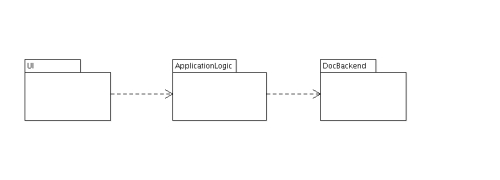
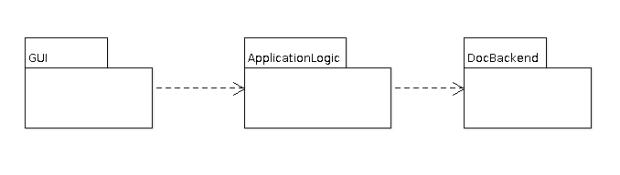
ST:correzioni post-verifica

Changed region(s): [[0.03, 0.2, 0.96, 0.7429]]

diff --git a/doc/SpecificaTecnica/SpecificaTecnica.tex b/doc/SpecificaTecnica/SpecificaTecnica.tex
@@ -92,8 +92,7 @@ Il presente documento descrive le scelte tecniche, architetturali e tecnologiche
 			\label{tabredazione}
 		\end{center}
 	\end{table}
-	
-\newpage	
+
 	
 \section*{\LARGE Approvazione:}
 \begin{table}[!h]
@@ -108,8 +107,8 @@ Il presente documento descrive le scelte tecniche, architetturali e tecnologiche
 			%%%%%%%%%%%%%%FINE INTESTAZIONE COLONNE%%%%%%%%%%%%%%%%%%%%%%%%%%%%%%
 			\hline
 			%%%%%%%%%%% PARTE DA MODIFICARE %%%%%%%%%%%%%%%%%%%%%%%%%%%%%%%%%%%%%%		
-			\multirow{2}{*}{RR-RPP} & \\
-									& \\
+			\multirow{1}{*}{RR-RPP} & Geremia Mirco\\
+									
 			\hline
 			%%%%%%%%%%% FINE PARTE DA MODIFICARE %%%%%%%%%%%%%%%%%%%%%%%%%%%%%%%%%%%
 		\end{tabular}
@@ -119,7 +118,7 @@ Il presente documento descrive le scelte tecniche, architetturali e tecnologiche
 \end{table}
 
 \textbf{}
-
+\newpage
 \section*{\LARGE Lista di Distribuzione:}
 
 	\begin{elenconumerato}{\normindent}
@@ -127,7 +126,7 @@ Il presente documento descrive le scelte tecniche, architetturali e tecnologiche
 		\item I committenti Conte Renato e Vardanega Tullio in rappresentanza \\  dell'azienda proponente Zucchetti SPA
 	\end{elenconumerato}
 
-\newpage
+
 
 
 
@@ -145,7 +144,8 @@ Il presente documento descrive le scelte tecniche, architetturali e tecnologiche
 %%%%%%%%%%%%%%FINE INTESTAZIONE COLONNE%%%%%%%%%%%%%%%%%%%%%%%%%%%%%%%%%%%%%%%
 		 \hline
 %%%%%%%%%%% PARTE DA MODIFICARE %%%%%%%%%%%%%%%%%%%%%%%%%%%%%%%%%%%%%%%%%%%
-		  1.0 & 23$\slash$01$\slash$2009  Verifica finale in preparazione al rilascio per RPP & Bizzotto Piero \\		  
+		  1.0 & 23$\slash$01$\slash$2009  Verifica finale in preparazione al rilascio per RPP & Bizzotto Piero \\		
+		  0.8 & 23/01/2009 Correzioni in seguito a verifica & Bizzotto Piero \\
 		  0.7 & 22/01/2009 Correzioni in seguito a verifica & Dissegna Stefano \\
 		  0.6 & 22/01/2009 Descrizione e diagramma delle classi ServerLogic & Dal Bosco Davide\\
           0.5 & 22/01/2009 Descrizione e diagramma delle classi GUI & Bizzotto Piero \\
@@ -201,35 +201,47 @@ L'architettura del sistema \`e stata sviluppata secondo un paradigma orientato a
 \caption{Package principali}
 \end{figure}
 
-Il sistema si compone, al massimo livello di astrazione, di tre componenti: il primo, contenuto nel package \textit{UI}, si occupa dell'interfaccia utente, il secondo, contenuto nel package \textit{ApplicationLogic}, gestisce la logica interna, ovvero la gestione in memoria di quanto disegnato e della conversione tra rappresentazione interna e rappresentazione in SVG, e il terzo, contenuto nel package \textit{DocBackend}, si occupa del salvataggio e del caricamento di file testuali e dell'accesso a file statici, come ad esempio il manuale.
+Il sistema si compone, al massimo livello di astrazione, di tre componenti: il primo, contenuto nel package \textit{GUI}, si occupa dell'interfaccia utente, il secondo, contenuto nel package \textit{ApplicationLogic}, gestisce la logica interna, ovvero la gestione in memoria di quanto disegnato e della conversione tra rappresentazione interna e rappresentazione in SVG, e il terzo, contenuto nel package \textit{DocBackend}, si occupa del salvataggio e del caricamento di file testuali e dell'accesso a file statici, come ad esempio il manuale.
+\newpage
 \subsubsezione{Design Pattern usati}
-\paragraph{Facade (Document):}
+\paragrafo{Facade (Document):}
 Permette di salvare/caricare file senza conoscere il sottosistema che implementa le funzionalit\`a.
-\subparagraph{Subsystem} Il sottosistema \`e composto dal package \textit{DocBackend}
+\subparagrafo{Subsystem} Il sottosistema \`e composto dal package \textit{DocBackend}
 
-\paragraph{Facade (StaticDocument):}
+\paragrafo{Facade (StaticDocument):}
 Permette di ottenere un file statico senza conoscere il sottosistema che implementa le funzionalit\`a.
-\subparagraph{Subsystem} Il sottosistema \`e composto dal package \textit{DocBackend}
+\subparagrafo{Subsystem} Il sottosistema \`e composto dal package \textit{DocBackend}
 
-\paragraph{Template Method:}
-\subparagraph{Algoritmo parametrizzato:}
-Il metodo \textit{setSelection} di \textit{FigureSet} implementa la logica di selezione di una figura a partire da un punto.
-\subparagraph{Metodo astratto da implementare:}
+
+\paragrafo{Template Method:}
+\subparagrafo{Algoritmo parametrizzato:}
+Il metodo \textit{setSelection} di \textit{FigureSet} implementa la logica di selezione di una figura a partire da un punto.\\ \\
+\textbf{Metodo astratto da implementare:}
 Implementando il metodo astratto \textit{getMainPoints} di \textit{Figure} \`e possibile parametrizzare l'algoritmo generale adattandolo alla figura specifica.
 
-\paragraph{Abstract Factory:}
-\subparagraph{Factory:} \textit{SVGElementRegistry} permette di generare oggetti la cui classe deriva da \textit{SVGReadable} a partire dal nome di un tag, e il cui tipo quindi non pu\`o essere conosciuto solo a runtime.
-\subparagraph{Concrete Factory:} Invece che utilizzare un insieme statico di possibili associazioni tra nome tag e classe da costruire, si utilizza una tabella dinamica in cui le classi devono registrarsi. Le fabbriche concrete sono quindi tutte le classi che si registrano al sistema, in particolare tutte le classi che derivano da \textit{Figure}.
-\subparagraph{Abstract Product:} Un'istanza di una classe che implementa \textit{SVGReadable}.
-\subparagraph{Concrete Product:} Un'istanza di una classe registrata nel sistema.
-\subparagraph{Client:} \textit{SVGReader}
-
-\paragraph{Abstract Factory:} 
-\subparagraph{Factory:} \textit{Property} genera un elemento grafico per modificare una propriet\`a specifica.
-\subparagraph{Concrete Factory:} tutte le classi che derivano da \textit{Property}
-\subparagraph{Abstract Product:} \textit{Widget}
-\subparagraph{Concrete Product:} un particolare elemento grafico a seconda della propriet\`a coinvolta.
-\subparagraph{Client:} \textit{PropertiesDialog}
+\paragrafo{Abstract Factory:}
+\subparagrafo{Factory:} 
+\textit{SVGElementRegistry} permette di generare oggetti la cui classe deriva da \textit{SVGReadable} a partire dal nome di un tag, e il cui tipo quindi non pu\`o essere conosciuto solo a runtime. \\ \\
+\textbf{Concrete Factory:} \\
+Invece di utilizzare un insieme statico di possibili associazioni tra nome tag e classe da costruire, si utilizza una tabella dinamica in cui le classi devono registrarsi. Le fabbriche concrete sono quindi tutte le classi che si registrano al sistema, in particolare tutte le classi che derivano da \textit{Figure}. \\ \\
+\textbf{Abstract Product:} \\
+Un'istanza di una classe che implementa \textit{SVGReadable}. \\ \\
+\textbf{Concrete Product:} \\
+Un'istanza di una classe registrata nel sistema. \\ \\
+\textbf{Client:}\\
+\textit{SVGReader.} 
+\newpage
+\paragrafo{Abstract Factory:} 
+\subparagrafo{Factory:} 
+\textit{Property} genera un elemento grafico per modificare una propriet\`a specifica.\\ \\
+\textbf{Concrete Factory: }\\
+tutte le classi che derivano da \textit{Property}. \\ \\
+\textbf{Abstract Product: }\\
+\textit{Widget.}\\ \\
+\textbf{Concrete Product: }\\
+un particolare elemento grafico a seconda della propriet\`a coinvolta. \\
+\textbf{Client:}\\
+\textit{PropertiesDialog.}
 \newpage
 %\paragraph{Iterator:}
 %Viene usata una variante pi\`u semplice, anche se meno flessibile. 
@@ -241,7 +253,14 @@ Implementando il metodo astratto \textit{getMainPoints} di \textit{Figure} \`e p
 \includegraphics{GUIlogic.jpg}
 \caption{GUILogic}
 \end{figure}
-La GUI \` e  il client che verr\` a utilizzato nel sistema AJAXDRAW, e verr\` a descritta brevemente, in quanto rappresenta solo un'unit\` a che andr\`  a a lavorare sulle altre componenti di sistema. \` E costruita nella sua totalit\` a nella pagina web caricata dal browser, rappresentata dalla classe \textit{Page}, e composta da tutti i widgets con i quali interagire (che implementano tutti l'interfaccia generica \textit{Widget}).  I widgets si suddividono in \textit{Toolbar} (barra degli strumenti), \textit{Button} (pulsanti generici, che compongono anche la toolbar stessa), \textit{Palette} e \textit{ColourDialog}(per la gestione del colore), e \textit{PropertiesDialog}(per la modifica delle propriet\` a, che aggrega gli specifici \textit{Setter}). La pagina \` e composta inoltre dalla classe \textit{Visualization}, la quale gestisce il \textit{Canvas} e tutte le operazioni su di esso eseguite, tra cui la conversione tra coordinate utente e coordinate interne e lo zoom. Le classi che rappresentano oggetti con cui \`e necessario interagire tramite mouse implementano, tutte l'interfaccia \textit{UserClickEvent}, e tra queste vi \` e ovviamente la classe \textit{Canvas}, che oltre a questa implementa anche \textit{MouseMovePressed} e \textit{MouseMoveReleased}, necessarie al disegno tramite il mouse.  \` E infine presente la possibilit\` a per il programma di avvertire l'utente in caso di errore interno all'applicazione, tramite l'oggetto \textit{Alert}.
+La GUI \` e  il client che verr\` a utilizzato nel sistema AJAXDRAW, e verr\` a descritta brevemente, in quanto rappresenta solo un'unit\` a che andr\`  a a lavorare sulle altre componenti di sistema. \` E costruita nella sua totalit\` a nella pagina web caricata dal browser, rappresentata dalla classe \textit{Page}, e composta da tutti i widgets con i quali interagire (che implementano tutti l'interfaccia generica \textit{Widget}).  I widgets si suddividono in \textit{Toolbar} (barra degli strumenti), \textit{Button} (pulsanti generici, che compongono anche la toolbar stessa), \textit{Palette} e \textit{ColourDialog}(per la gestione del colore), e \textit{PropertiesDialog}(per la modifica delle propriet\` a, che aggrega gli specifici \textit{Setter}). La pagina \` e composta inoltre dalla classe \textit{Visualization}, la quale gestisce il \textit{Canvas} e tutte le operazioni su di esso eseguite, tra cui la conversione tra coordinate utente e coordinate interne e lo zoom. Le classi che rappresentano oggetti con cui \`e necessario interagire tramite mouse implementano, tutte l'interfaccia \textit{UserClickEvent}, e tra queste vi \` e ovviamente la classe \textit{Canvas}, che oltre a questa implementa anche \textit{MouseMovePressed} e \textit{MouseMoveReleased}, necessarie al disegno tramite il mouse.  \` E infine presente la possibilit\` a per il programma di avvertire l'utente in caso di errore interno all'applicazione, tramite l'oggetto \textit{Alert}. \\ \\ \\
+
+\begin{figure}[!ht]
+\centering
+\includegraphics{bozzaGUI.jpg}
+\caption{Bozza della GUI}
+\end{figure}
+
 \newpage
 \subsubsezione{ApplicationLogic - Logica interna}
 
@@ -284,7 +303,7 @@ L'importazione di un file SVG viene gestita dalla classe \textit{SVGReader} attr
 \caption{ServerLogic}
 \end{figure}
 
-In AJAXDRAW \`e necessaria la presenza di una parte server, visto il modello client-server dell'applicazione. La parte server, ha funzionalit\`a minimali, ma fondamentali per permettere il funzionamento dell'intero sistema. Le sue funzioni, oltre a quella di essere un webserver e fornire la pagina HTML al client, sono esclusivamente quelle di permettere un salvataggio in formato SVG del disegno effettuato sul client, effettuare il caricamento di un file risiedente su disco e avere accesso al manuale utente dell'applicazione. Come da figura 6, \`e composto da una classe \textit{Document} che rappresenta il disegno effettuato sul canvas, nella quale sono presenti i metodi \textit{save} e \textit{load}. L'uso di questi metodi permettono l'invio di una richiesta al server (classe \textit{Request}, tramite il metodo \textit{acceptRequest}). La classe \textit{Server} contiene tre metodi: \textit{getSave} che permette di salvare un file su disco, \textit{getLoad} che permette di caricare un file e \textit{getHTML} che ha il compito di ottenere la pagina HTML da fornire al client e di prelevare il manuale utente. La classe \textit{File} rappresenta un file che risiede su disco, il quale \`e possibile prelevarlo (\textit{getFile}) o cancellarlo (\textit{deleteFile}). La classe \textit{Clean} contiene il metodo \textit{sweeper} il quale elimina i file che sono gia stati scaricati o i file di client che abbandonano la connessione con il server, in modo da evitare che quesi file presenti temporaneamente sul server non lo intasino. La classe \textit{StaticDocument}, tramite il suo metodo \textit{get} permette di inviare una richiesta al server per ottenere il manuale utente. Sono presenti inoltre delle classi che permettono la gestione di eccezioni: pu\`o verificarsi un errore di comunicazione (rappresentato dall'interfaccia \textit{CommunicationError} e dalle classi \textit{ConnectionError} e \textit{ServerError} con relativi metodi che la implementano), o un errore di file non trovato (perch\`e su disco non \`e presente il file). Questo tipo di eccezione \`e rappresentato dalla classe \textit{FileNotFound} con il relativo metodo \textit{getFileError}. 
+In AJAXDRAW \`e necessaria la presenza di una parte server, visto il modello client-server dell'applicazione. La parte server ha funzionalit\`a minimali, ma fondamentali per permettere il funzionamento dell'intero sistema. Le sue funzioni, oltre a quella di essere un webserver e fornire la pagina HTML al client, sono esclusivamente quelle di permettere un salvataggio in formato SVG del disegno effettuato sul client, effettuare il caricamento di un file risiedente su disco e avere accesso al manuale utente dell'applicazione. Come da figura 6, \`e composto da una classe \textit{Document} che rappresenta il disegno effettuato sul canvas, nella quale sono presenti i metodi \textit{save} e \textit{load}. L'uso di questi metodi permettono l'invio di una richiesta al server (classe \textit{Request}, tramite il metodo \textit{acceptRequest}). La classe \textit{Server} contiene tre metodi: \textit{getSave} che permette di salvare un file su disco, \textit{getLoad} che permette di caricare un file e \textit{getHTML} che ha il compito di ottenere la pagina HTML da fornire al client e di prelevare il manuale utente. La classe \textit{File} rappresenta un file che risiede su disco, il quale \`e possibile prelevarlo (\textit{getFile}) o cancellarlo (\textit{deleteFile}). La classe \textit{Clean} contiene il metodo \textit{sweeper} il quale elimina i file che sono gia stati scaricati o i file di client che abbandonano la connessione con il server, in modo da evitare che quesi file presenti temporaneamente sul server non lo intasino. La classe \textit{StaticDocument}, tramite il suo metodo \textit{get} permette di inviare una richiesta al server per ottenere il manuale utente. Sono presenti inoltre delle classi che permettono la gestione di eccezioni: pu\`o verificarsi un errore di comunicazione (rappresentato dall'interfaccia \textit{CommunicationError} e dalle classi \textit{ConnectionError} e \textit{ServerError} con relativi metodi che la implementano), o un errore di file non trovato (perch\`e su disco non \`e presente il file). Questo tipo di eccezione \`e rappresentato dalla classe \textit{FileNotFound} con il relativo metodo \textit{getFileError}. 
 
 
 \sezione{Descrizione dei singoli componenti}
@@ -510,7 +529,7 @@ Classe concreta che si occupa di avvertire l'utente di un errore verificatosi ne
 Nessuna.
 \subsubsezione{Interfacce e relazioni di uso da altre componenti}
 Nessuna.
-\subsubsezione{Attivit\`a svolte e dati trattati}begin{elencopuntato}[\normindent]
+\subsubsezione{Attivit\`a svolte e dati trattati}
 \begin{elencopuntato}[\normindent]
 \item[-]  \textit{showError} metodo che avverte l'utente di un qualche errore tramite pop-up o un avviso di altro genere.
 \end{elencopuntato}
@@ -576,6 +595,7 @@ Implementata da \textit{Colour}, \textit{TextFont} e \textit{TextSize}.
 \subsubsezione{Tipo, obiettivo e funzione del componente}
 Rappresenta l'opacit\`a di un colore.
 \subsubsezione{Relazioni d'uso di altre componenti}
+Nessuna.
 \subsubsezione{Interfacce e relazioni di uso da altre componenti}
 \textit{Colour} ne mantiene un'istanza.
 \subsubsezione{Attivit\`a svolte e dati trattati}
@@ -627,6 +647,7 @@ Rappresenta il colore di un testo.
 \subsubsezione{Relazioni d'uso di altre componenti}
 Deriva da \textit{Colour} e da \textit{TextProperty}.
 \subsubsezione{Interfacce e relazioni di uso da altre componenti}
+Nessuna.
 \subsubsezione{Attivit\`a svolte e dati trattati}
 Nessuna a questo livello.
 
@@ -636,6 +657,7 @@ Rappresenta il font di un testo.
 \subsubsezione{Relazioni d'uso di altre componenti}
 Deriva da \textit{TextProperty} e implementa \textit{CSSProperty}.
 \subsubsezione{Interfacce e relazioni di uso da altre componenti}
+Nessuna.
 \subsubsezione{Attivit\`a svolte e dati trattati}
 Nessuna a questo livello.
 
@@ -645,6 +667,7 @@ Rappresenta la grandezza di un testo.
 \subsubsezione{Relazioni d'uso di altre componenti}
 Deriva da \textit{TextProperty} e implementa \textit{CSSProperty}.
 \subsubsezione{Interfacce e relazioni di uso da altre componenti}
+Nessuna.
 \subsubsezione{Attivit\`a svolte e dati trattati}
 Nessuna a questo livello.
 
@@ -654,6 +677,7 @@ Rappresenta la posizione e le dimensioni massime di una figura.
 \subsubsezione{Relazioni d'uso di altre componenti}
 Implementa \textit{Property}. Ogni istanza di \textit{Figure} ne mantiene un'istanza.
 \subsubsezione{Interfacce e relazioni di uso da altre componenti}
+Nessuna.
 \subsubsezione{Attivit\`a svolte e dati trattati}
 Nessuna a questo livello.
 
@@ -663,6 +687,7 @@ Rappresenta un cerchio o un'ellisse.
 \subsubsezione{Relazioni d'uso di altre componenti}
 Deriva da \textit{Figure} e ne implementa i metodi astratti. Mantiene un'istanza di \textit{FillColour}.
 \subsubsezione{Interfacce e relazioni di uso da altre componenti}
+Nessuna.
 \subsubsezione{Attivit\`a svolte e dati trattati}
 Nessuna a questo livello.
 
@@ -672,6 +697,7 @@ Rappresenta un rettangolo o un quadrato.
 \subsubsezione{Relazioni d'uso di altre componenti}
 Deriva da \textit{Figure} e ne implementa i metodi astratti. Mantiene un'istanza di \textit{FillColour}.
 \subsubsezione{Interfacce e relazioni di uso da altre componenti}
+Nessuna.
 \subsubsezione{Attivit\`a svolte e dati trattati}
 Nessuna a questo livello.
 
@@ -681,6 +707,7 @@ Rappresenta una linea generica.
 \subsubsezione{Relazioni d'uso di altre componenti}
 Deriva da \textit{Figure}.
 \subsubsezione{Interfacce e relazioni di uso da altre componenti}
+Nessuna.
 \subsubsezione{Attivit\`a svolte e dati trattati}
 Nessuna a questo livello.
 
@@ -690,6 +717,7 @@ Rappresenta una linea diritta.
 \subsubsezione{Relazioni d'uso di altre componenti}
 Deriva da \textit{Line} e ne implementa i metodi astratti.
 \subsubsezione{Interfacce e relazioni di uso da altre componenti}
+Nessuna.
 \subsubsezione{Attivit\`a svolte e dati trattati}
 Nessuna a questo livello.
 
@@ -711,6 +739,7 @@ Rappresenta una linea curva.
 \subsubsezione{Relazioni d'uso di altre componenti}
 Deriva da \textit{FreeLine}.
 \subsubsezione{Interfacce e relazioni di uso da altre componenti}
+Nessuna.
 \subsubsezione{Attivit\`a svolte e dati trattati}
 Nessuna a questo livello.
 
@@ -720,6 +749,7 @@ Rappresenta un poligono regolare.
 \subsubsezione{Relazioni d'uso di altre componenti}
 Deriva da \textit{Figure} e ne implementa i metodi astratti. Mantiene un'istanza di \textit{FillColour} e di \textit{EdgeNumber} che ne identifica il numero di lati.
 \subsubsezione{Interfacce e relazioni di uso da altre componenti}
+Nessuna.
 \subsubsezione{Attivit\`a svolte e dati trattati}
 Nessuna a questo livello.
 
@@ -729,6 +759,7 @@ Permette di creare un documento SVG.
 \subsubsezione{Relazioni d'uso di altre componenti}
 Accede alle figure correnti attraverso un'istanza di \textit{FigureSet}.
 \subsubsezione{Interfacce e relazioni di uso da altre componenti}
+Nessuna.
 \subsubsezione{Attivit\`a svolte e dati trattati}
 \begin{elencopuntato}[\normindent]
 \item[-] \textit{write} crea un documento SVG che contiene le figure correntemente disegnate.
@@ -750,6 +781,7 @@ Implementata dalle classi che rappresentano figure.
 \subsubsezione{Tipo, obiettivo e funzione del componente}
 Rappresenta un documento SVG in costruzione.
 \subsubsezione{Relazioni d'uso di altre componenti}
+Nessuna.
 \subsubsezione{Interfacce e relazioni di uso da altre componenti}
 Usato da \textit{SVGWriter} e dalle classi che implementano \textit{SVGWritable} per realizzare un documento SVG.
 \subsubsezione{Attivit\`a svolte e dati trattati}
@@ -763,22 +795,27 @@ Usato da \textit{SVGWriter} e dalle classi che implementano \textit{SVGWritable}
 \subsubsezione{Tipo, obiettivo e funzione del componente}
 Un parser SVG.
 \subsubsezione{Relazioni d'uso di altre componenti}
+Nessuna.
 \subsubsezione{Interfacce e relazioni di uso da altre componenti}
 Usato da \textit{SVGReader}.
 \subsubsezione{Attivit\`a svolte e dati trattati}
+Nessuna a questo livello.
 
 \subsezione{SVGTag}
 \subsubsezione{Tipo, obiettivo e funzione del componente}
 Rappresenta un tag (ovvero un comando) SVG.
 \subsubsezione{Relazioni d'uso di altre componenti}
+Nessuna.
 \subsubsezione{Interfacce e relazioni di uso da altre componenti}
 Usato da \textit{SVGReader} e dalle classi che implementano \textit{SVGReadable}.
 \subsubsezione{Attivit\`a svolte e dati trattati}
+Nessuna a questo livello.
 
 \subsezione{SVGReadable}
 \subsubsezione{Tipo, obiettivo e funzione del componente}
 Rappresenta un oggetto caricabile da un documento SVG.
 \subsubsezione{Relazioni d'uso di altre componenti}
+Nessuna.
 \subsubsezione{Interfacce e relazioni di uso da altre componenti}
 Implementata dalle classi che rappresentano figure.
 \subsubsezione{Attivit\`a svolte e dati trattati}
@@ -790,9 +827,11 @@ Implementata dalle classi che rappresentano figure.
 \subsubsezione{Tipo, obiettivo e funzione del componente}
 Metaclasse di \textit{SVGReadable}.
 \subsubsezione{Relazioni d'uso di altre componenti}
+Nessuna.
 \subsubsezione{Interfacce e relazioni di uso da altre componenti}
 Usata da \textit{SVGElementRegistry} per associare il nome di un tag a una classe che implementa \textit{SVGReadable}.
 \subsubsezione{Attivit\`a svolte e dati trattati}
+Nessuna a questo livello.
 
 \subsezione{SVGReader}
 \subsubsezione{Tipo, obiettivo e funzione del componente}
@@ -800,6 +839,7 @@ Permette di caricare un documento SVG.
 \subsubsezione{Relazioni d'uso di altre componenti}
 Usa \textit{XMLParser} per fare il parsing del documento testuale, crea \textit{SVGTag} e usa \textit{SVGElementRegistry} per creare una figura a partire da un tag SVG.
 \subsubsezione{Interfacce e relazioni di uso da altre componenti}
+Nessuna.
 \subsubsezione{Attivit\`a svolte e dati trattati}
 \begin{elencopuntato}[\normindent]
 \item[-] \textit{read} prende un documento SVG e ritorna un'istanza di \textit{FigureSet} che lo rappresenta.
@@ -824,6 +864,7 @@ Rappresenta il manuale utente.
 \subsubsezione{Relazioni d'uso di altre componenti}
 Usa \textit{StaticDocument} per ottenere il file contenente il manuale.
 \subsubsezione{Interfacce e relazioni di uso da altre componenti}
+Nessuna.
 \subsubsezione{Attivit\`a svolte e dati trattati}
 \begin{elencopuntato}[\normindent]
 \item[-] \textit{get} ritorna il manuale.
@@ -833,28 +874,37 @@ Usa \textit{StaticDocument} per ottenere il file contenente il manuale.
 \subsubsezione{Tipo, obiettivo e funzione del componente}
 Un punto sul piano.
 \subsubsezione{Relazioni d'uso di altre componenti}
+Nessuna.
 \subsubsezione{Interfacce e relazioni di uso da altre componenti}
+Nessuna.
 \subsubsezione{Attivit\`a svolte e dati trattati}
+Nessuna a questo livello.
 
 \subsezione{PointSeq}
 \subsubsezione{Tipo, obiettivo e funzione del componente}
 Una sequenza di \textit{Point}.
 \subsubsezione{Relazioni d'uso di altre componenti}
+Nessuna.
 \subsubsezione{Interfacce e relazioni di uso da altre componenti}
+Nessuna.
 \subsubsezione{Attivit\`a svolte e dati trattati}
+Nessuna a questo livello.
 
 \subsezione{Object}
 \subsubsezione{Tipo, obiettivo e funzione del componente}
 Superclasse di ogni classe.
 \subsubsezione{Relazioni d'uso di altre componenti}
+Nessuna.
 \subsubsezione{Interfacce e relazioni di uso da altre componenti}
 Ereditata automaticamente da ogni classe.
 \subsubsezione{Attivit\`a svolte e dati trattati}
+Nessuna a questo livello.
 
 \subsezione{Function}
 \subsubsezione{Tipo, obiettivo e funzione del componente}
 Una funzione di prima classe che accetta un argomento di tipo qualsiasi. La funzione pu\`o essere anonima o no.
 \subsubsezione{Relazioni d'uso di altre componenti}
+Nessuna.
 \subsubsezione{Interfacce e relazioni di uso da altre componenti}
 Usata dai metodi di iterazione, come ad esempio \textit{each} di \textit{FigureSet}, per applicare una certa operazione ad ogni elemento di una collezione.
 \subsubsezione{Attivit\`a svolte e dati trattati}
@@ -862,6 +912,7 @@ Usata dai metodi di iterazione, come ad esempio \textit{each} di \textit{FigureS
 \item[-] \textit{call} richiama la funzione.
 \end{elencopuntato}
 
+%Parte Dal Bosco
 \subsezione{Document}
 \subsubsezione{Tipo, obiettivo e funzione del componente}
 Permette di salvare e caricare file.
@@ -987,7 +1038,7 @@ Usata da \textit{File} nel caso non venga trovato su disco un file richiesto.
 \sezione{Stime di fattibilit\`a e di bisogno di risorse}
 Il maggiore collo di bottiglia del sistema \`e rappresentato dal server, in quanto una singola macchina pu\`o trovarsi a gestire un numero elevato di richieste. Non dovrebbero comunque esserci problemi in quanto le funzionalit\`a implementate lato server sono minime, e quindi ogni singolo client comporta un dispendio di risorse, in termini di tempo di calcolo, di spazio su disco e di banda, minimo. 
 Un secondo problema prestazionale \`e rappresentato dal fatto che l'applicazione sar\`a forzatamente scritta in \underline{JavaScript}, la cui implementazione \`e estremamente scadente dal punto di vista delle prestazioni in quasi tutti i browser, fatta eccezione per Google Chrome, l'unico a fornire un sistema di compilazione \underline{JIT}. Per questo, durante l'implementazione si dovr\`a porre una costante attenzione alle risorse richieste dai diversi metodi.
-
+\newpage
 \sezione{Tracciamento della relazione componenti-requisiti}
 \begin{table}[h]
 \begin{center}
@@ -1010,7 +1061,7 @@ Un secondo problema prestazionale \`e rappresentato dal fatto che l'applicazione
      \hline
      Toolbar & RFO-11, RIO-1 \\
      \hline
-     PropertyDialog & RFO-12 \\ 
+     PropertiesDialog & RFO-12 \\ 
      \hline
      BoundingRectangle & RFO-10 \\
      \hline
@@ -1130,7 +1181,7 @@ Un secondo problema prestazionale \`e rappresentato dal fatto che l'applicazione
      \hline
      ServerError & RFO-15, RFO-16 \\
      \hline
-     Server & RFO-15, RFO-16 \\
+     Server & RFO-15, RFO-16, RIO-2, RIO-3 \\
      \hline
      StaticDocument & RFO-15, RFO-16 \\
      \hline

diff --git a/doc/TeX/base.tex b/doc/TeX/base.tex
@@ -132,3 +132,5 @@
 \newcommand{\secindent}{18}
 \newcommand{\normindent}{8}
 \newcommand{\code}[1]{{\bfseries \texttt{#1}}}
+\newcommand{\paragrafo}[1]{\leftskip=36pt \paragraph{#1} \leftskip=54pt}
+\newcommand{\subparagrafo}[1]{\leftskip=54pt \subparagraph{#1} \leftskip=72pt}
